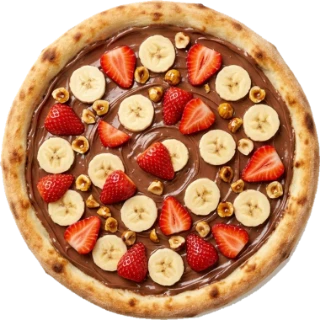
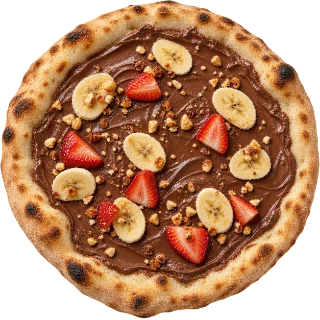
Replace Brooklyn Choco Dreams photo with natural food styling

diff --git a/public/index.html b/public/index.html
@@ -110,7 +110,7 @@
       <div class="body"><span class="tag">Crémeuse</span><div class="top"><h3>Chicken Creamy Bacon</h3><span class="price">12,90€</span></div>
       <p>Base crème fraîche, poulet rôti, bacon, mozzarella, oignons rouges.</p>
       <a class="card-link" href="menu.html#pizza-chicken-creamy-bacon">Voir sur la carte <svg class="action-icon action-icon--arrow" viewBox="0 0 24 24" width="20" height="20" fill="none" stroke="currentColor" stroke-width="1.8" stroke-linecap="round" stroke-linejoin="round" aria-hidden="true" focusable="false"><path d="M5 12h14m-6-6 6 6-6 6"/></svg><span class="sr-only"> : Pizza Chicken Creamy Bacon — poulet rôti et bacon sur base crème</span></a></div></div>
-    <div class="card"><div class="pic"><picture><source type="image/webp" srcset="assets/img/pizzas/web/brooklyn-choco-dreams-320.webp?v=20261003 320w, assets/img/pizzas/web/brooklyn-choco-dreams-480.webp?v=20261003 480w, assets/img/pizzas/web/brooklyn-choco-dreams-760.webp?v=20261003 760w" sizes="(max-width: 560px) 80vw, (max-width: 900px) 38vw, 310px"><img src="assets/img/pizzas/brooklyn-choco-dreams.png" alt="Sweet pizza Brooklyn Choco Dreams — chocolat, banane et fraises" width="800" height="800" loading="lazy" decoding="async"></picture></div>
+    <div class="card"><div class="pic"><picture><source type="image/webp" srcset="assets/img/pizzas/web/brooklyn-choco-dreams-320.webp?v=20261003-natural 320w, assets/img/pizzas/web/brooklyn-choco-dreams-480.webp?v=20261003-natural 480w, assets/img/pizzas/web/brooklyn-choco-dreams-800.webp?v=20261003-natural 800w, assets/img/pizzas/web/brooklyn-choco-dreams-1254.webp?v=20261003-natural 1254w" sizes="(max-width: 560px) 80vw, (max-width: 900px) 38vw, 310px"><img src="assets/img/pizzas/brooklyn-choco-dreams.png?v=20261003-natural" alt="Sweet pizza Brooklyn Choco Dreams — chocolat, banane et fraises" width="1254" height="1254" loading="lazy" decoding="async"></picture></div>
       <div class="body"><span class="tag">Sweet Pizza</span><div class="top"><h3>Brooklyn Choco Dreams</h3><span class="price">9,90€</span></div>
       <p>Base nutella, banane, fraises fraîches, noisettes caramélisées.</p>
       <a class="card-link" href="menu.html#pizza-brooklyn-choco-dreams">Voir sur la carte <svg class="action-icon action-icon--arrow" viewBox="0 0 24 24" width="20" height="20" fill="none" stroke="currentColor" stroke-width="1.8" stroke-linecap="round" stroke-linejoin="round" aria-hidden="true" focusable="false"><path d="M5 12h14m-6-6 6 6-6 6"/></svg><span class="sr-only"> : Sweet pizza Brooklyn Choco Dreams — chocolat, banane et fraises</span></a></div></div>

diff --git a/public/menu.html b/public/menu.html
@@ -229,8 +229,8 @@
   <div class="menu-list menu-list--pizzas">
     <div class="row row--pizza" id="pizza-brooklyn-choco-dreams">
       <picture class="pizza-thumb">
-        <source type="image/webp" srcset="assets/img/pizzas/web/brooklyn-choco-dreams-320.webp?v=20261003 320w, assets/img/pizzas/web/brooklyn-choco-dreams-480.webp?v=20261003 480w" sizes="(max-width: 360px) 96px, (max-width: 560px) 112px, 150px">
-        <img src="assets/img/pizzas/brooklyn-choco-dreams.png" alt="" width="100" height="100" loading="lazy" decoding="async">
+        <source type="image/webp" srcset="assets/img/pizzas/web/brooklyn-choco-dreams-320.webp?v=20261003-natural 320w, assets/img/pizzas/web/brooklyn-choco-dreams-480.webp?v=20261003-natural 480w" sizes="(max-width: 360px) 96px, (max-width: 560px) 112px, 150px">
+        <img src="assets/img/pizzas/brooklyn-choco-dreams.png?v=20261003-natural" alt="" width="100" height="100" loading="lazy" decoding="async">
       </picture>
       <div class="pizza-copy"><span class="n">Brooklyn Choco Dreams</span><span class="lead"></span><span class="p">9,90€</span><span class="desc">Base nutella, rondelles de banane, fraises fraîches, éclats de noisettes caramélisées</span></div>
     </div>
